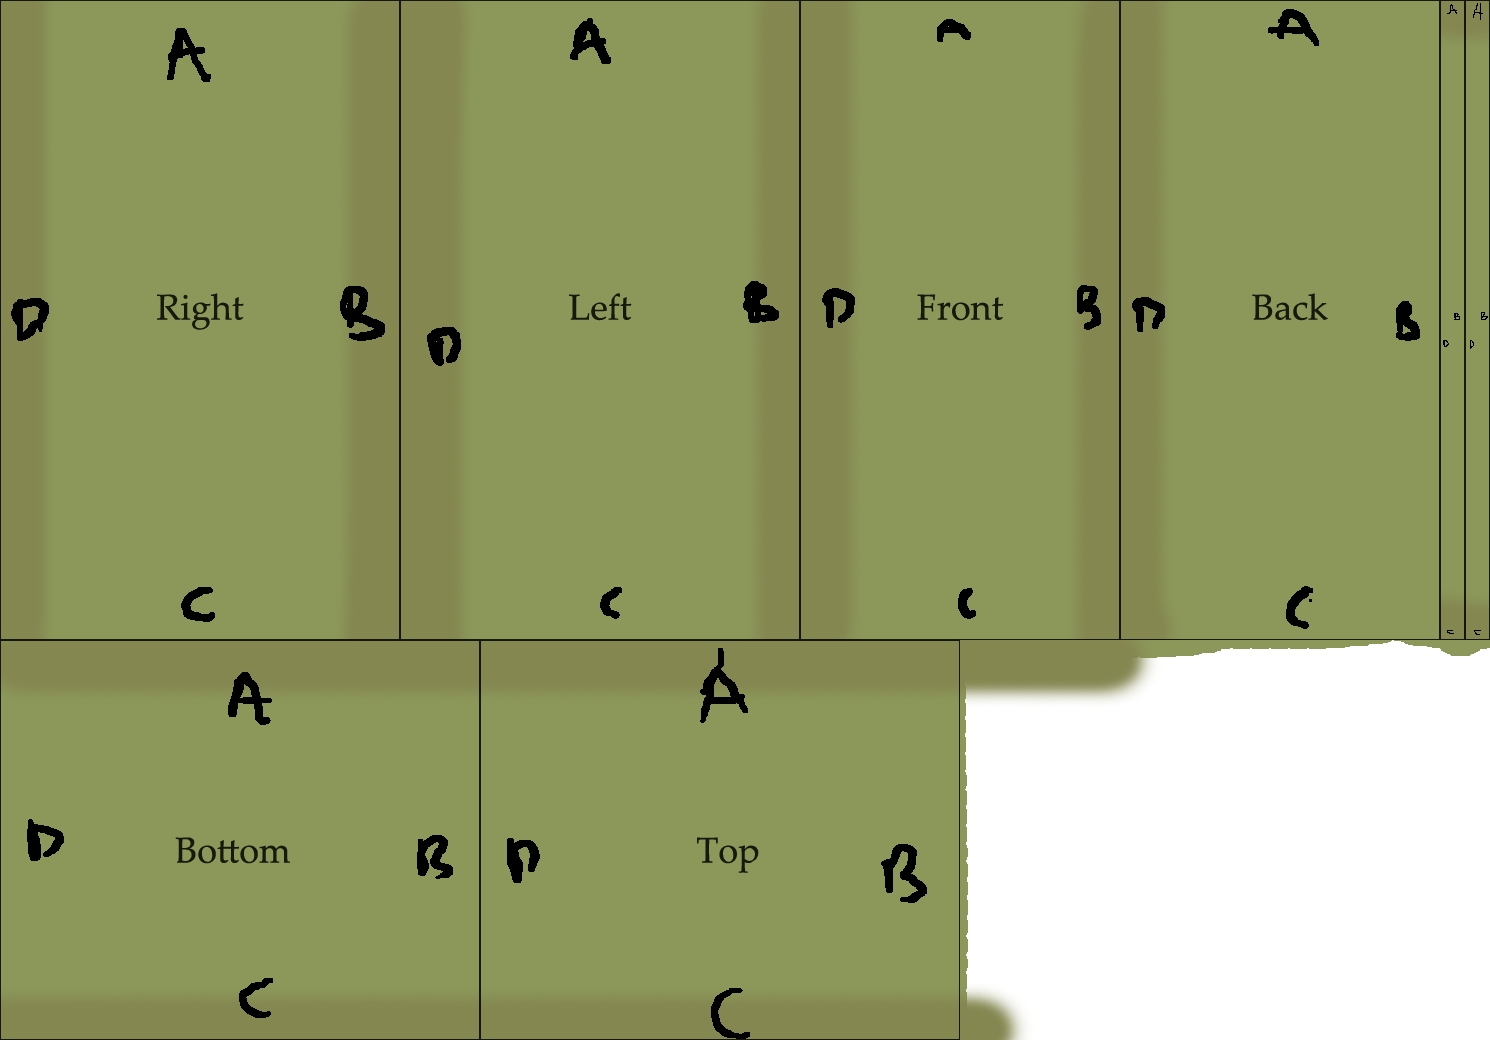
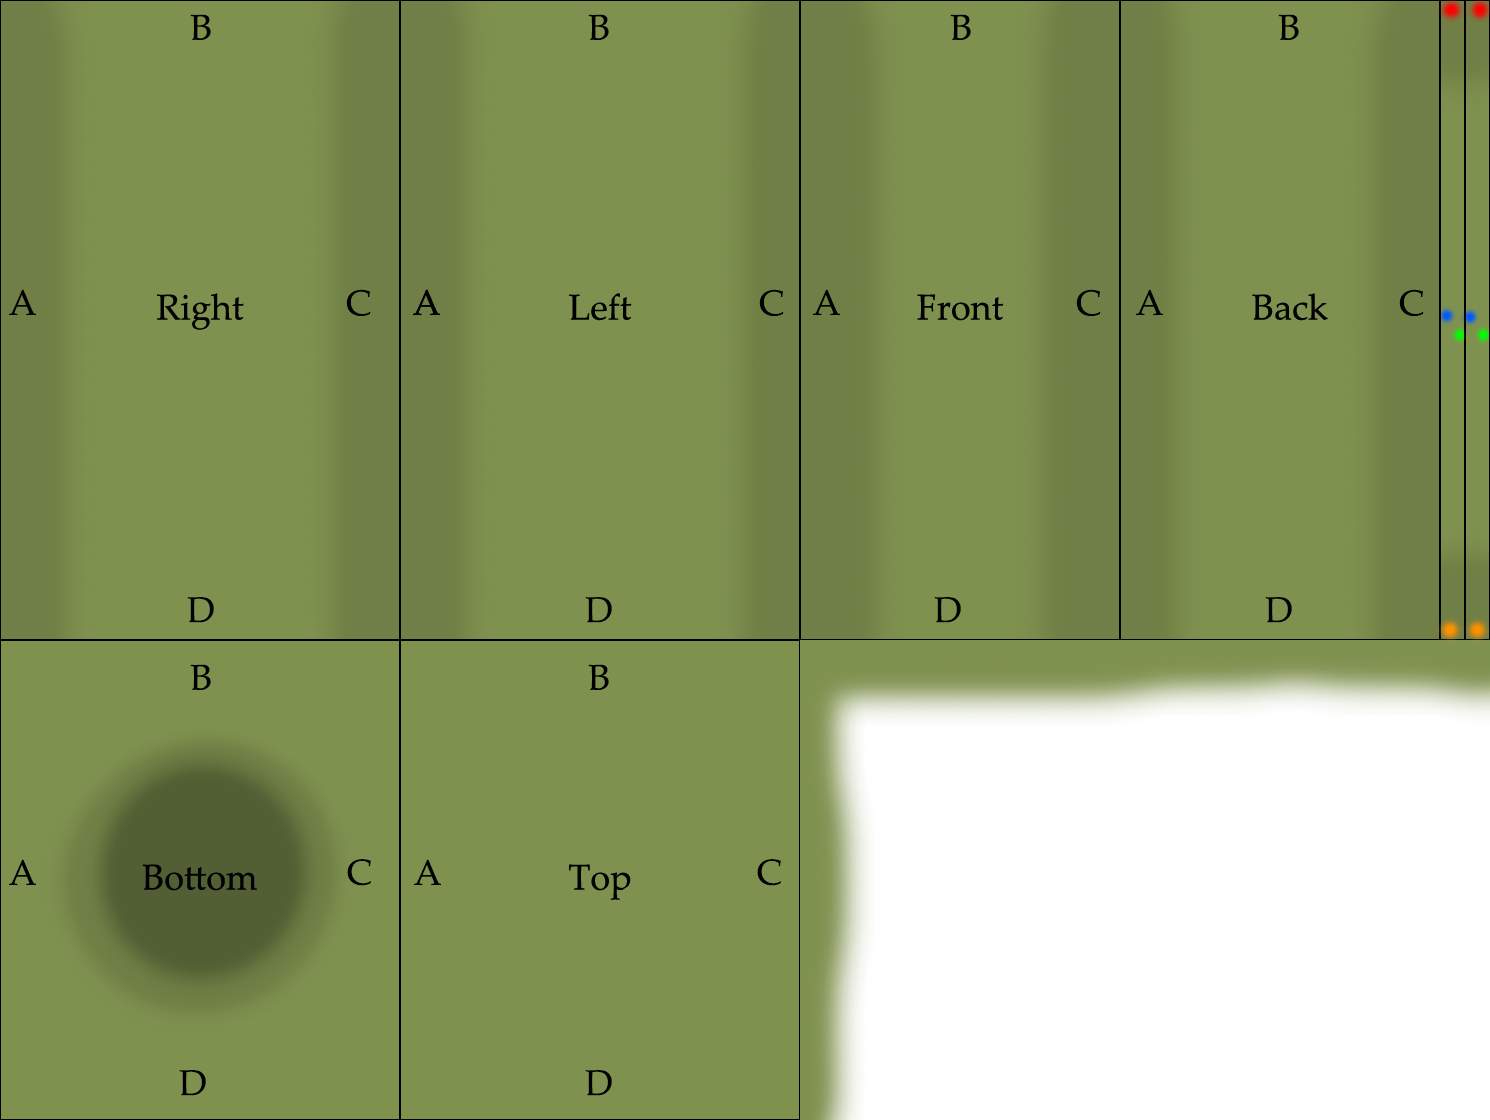
Sprite Atlas functional, changed .face to remove 100% BG. Update atlas test image

diff --git a/models/afssBody/afssBodyStyle.css b/models/afssBody/afssBodyStyle.css
@@ -2,100 +2,135 @@
 .afssBody {
   transform:translate3D(0em, 0em, 0em) rotateX(-90deg) rotateY(0deg) rotateZ(0deg);
   opacity:1;
-  width:2.5em;
-  height:4em;
-  margin:-2em 0 0 -1.25em;
+  width:25em;
+  height:40em;
+  margin:-20em 0 0 -12.5em;
 }
 .afssBody .ft {
-  transform:translateZ(1.5em);
+  transform:translateZ(15em);
 }
 .afssBody .bk {
-  transform:translateZ(-1.5em) rotateY(180deg);
+  transform:translateZ(-15em) rotateY(180deg);
 }
 .afssBody .rt, .afssBody .lt {
-  width:3em;
-  height:4em;
+  width:30em;
+  height:40em;
 }
 .afssBody .lt {
-  background-image: url(https://cdn.jsdelivr.net/gh/tnharvey/3DCSSTrainingRoom@main/models/afssBody/afss-side-top.png);
+  background: url(https://cdn.jsdelivr.net/gh/tnharvey/3DCSSTrainingRoom@main/models/afssBody/AFSS-Atlas2-test.png) 400 0;
 }
 .afssBody .rt {
-  background-image: url(https://cdn.jsdelivr.net/gh/tnharvey/3DCSSTrainingRoom@main/models/afssBody/afss-side-top.png);
+  background: url(https://cdn.jsdelivr.net/gh/tnharvey/3DCSSTrainingRoom@main/models/afssBody/AFSS-Atlas2-test.png) 0 0;
 }
-
+.afssBody .tp {
+  background: url(https://cdn.jsdelivr.net/gh/tnharvey/3DCSSTrainingRoom@main/models/afssBody/AFSS-Atlas2-test.png) 0 640;
+}
+.afssBody .bm {
+  background: url(https://cdn.jsdelivr.net/gh/tnharvey/3DCSSTrainingRoom@main/models/afssBody/AFSS-Atlas2-test.png) 480 640;
+}
+.afssBody .ft {
+  background: url(https://cdn.jsdelivr.net/gh/tnharvey/3DCSSTrainingRoom@main/models/afssBody/AFSS-Atlas2-test.png) 800 0;
+}
+.afssBody .bk {
+  background: url(https://cdn.jsdelivr.net/gh/tnharvey/3DCSSTrainingRoom@main/models/afssBody/AFSS-Atlas2-test.png) -1120 0;
+}
 .afssBody .tp, .afssBody .bm {
-  width:2.5em;
-  height:3em;
+  width:25em;
+  height:30em;
 }
 .afssBody .face {
   background-color:#b6b17c;
 }
 .afssBody .ft {
-  width:2em;
-  margin-left:0.25em;
+  width:20em;
+  margin-left:2.5em;
 }
 .afssBody .bk {
-  width:2em;
-  margin-left:-0.25em;
+  width:20em;
+  margin-left:-2.5em;
 }
 .afssBody .rt, .afssBody .lt {
-  width:2.5em;
+  width:25em;
 }
 .afssBody .tp, .afssBody .bm, .afssBody .tp .photon-shader, .afssBody .bm .photon-shader {
-  border-radius:0.25em;
+  border-radius:2.5em;
 }
 .afssBody .cr {
-  width:0.25em;
-  left:0.125em;
+  width:2.5em;
+  left:1.25em;
 }
 .afssBody .cr-0 {
-  transform: translate3D(2em, 0, 1.25em);
+  transform: translate3D(20em, 0, 12.5em);
 }
 .afssBody .cr-1 {
-  transform: translate3D(2em, 0, -1.25em);
+  transform: translate3D(20em, 0, -12.5em);
 }
 .afssBody .cr-2 {
-  transform: translate3D(0, 0, -1.25em);
+  transform: translate3D(0, 0, -12.5em);
 }
 .afssBody .cr-3 {
-  transform: translate3D(0, 0, 1.25em);
+  transform: translate3D(0, 0, 12.5em);
 }
 .afssBody .cr-0 .s0 {
-  transform: rotateY(15deg) translate3D(-50%, 0, 0.225em);
+  transform: rotateY(9deg) translate3D(-50%, 0, 2.475em);
 }
 .afssBody .cr-0 .s1 {
-  transform: rotateY(45deg) translate3D(-50%, 0, 0.225em);
+  transform: rotateY(27deg) translate3D(-50%, 0, 2.475em);
 }
 .afssBody .cr-0 .s2 {
-  transform: rotateY(75deg) translate3D(-50%, 0, 0.225em);
+  transform: rotateY(45deg) translate3D(-50%, 0, 2.475em);
+}
+.afssBody .cr-0 .s3 {
+  transform: rotateY(63deg) translate3D(-50%, 0, 2.475em);
+}
+.afssBody .cr-0 .s4 {
+  transform: rotateY(81deg) translate3D(-50%, 0, 2.475em);
 }
 .afssBody .cr-1 .s0 {
-  transform: rotateY(105deg) translate3D(-50%, 0, 0.225em);
+  transform: rotateY(99deg) translate3D(-50%, 0, 2.475em);
 }
 .afssBody .cr-1 .s1 {
-  transform: rotateY(135deg) translate3D(-50%, 0, 0.225em);
+  transform: rotateY(117deg) translate3D(-50%, 0, 2.475em);
 }
 .afssBody .cr-1 .s2 {
-  transform: rotateY(165deg) translate3D(-50%, 0, 0.225em);
+  transform: rotateY(135deg) translate3D(-50%, 0, 2.475em);
+}
+.afssBody .cr-1 .s3 {
+  transform: rotateY(153deg) translate3D(-50%, 0, 2.475em);
+}
+.afssBody .cr-1 .s4 {
+  transform: rotateY(171deg) translate3D(-50%, 0, 2.475em);
 }
 .afssBody .cr-2 .s0 {
-  transform: rotateY(195deg) translate3D(-50%, 0, 0.225em);
+  transform: rotateY(189deg) translate3D(-50%, 0, 2.475em);
 }
 .afssBody .cr-2 .s1 {
-  transform: rotateY(225deg) translate3D(-50%, 0, 0.225em);
+  transform: rotateY(207deg) translate3D(-50%, 0, 2.475em);
 }
 .afssBody .cr-2 .s2 {
-  transform: rotateY(255deg) translate3D(-50%, 0, 0.225em);
+  transform: rotateY(225deg) translate3D(-50%, 0, 2.475em);
+}
+.afssBody .cr-2 .s3 {
+  transform: rotateY(243deg) translate3D(-50%, 0, 2.475em);
+}
+.afssBody .cr-2 .s4 {
+  transform: rotateY(261deg) translate3D(-50%, 0, 2.475em);
 }
 .afssBody .cr-3 .s0 {
-  transform: rotateY(285deg) translate3D(-50%, 0, 0.225em);
+  transform: rotateY(279deg) translate3D(-50%, 0, 2.475em);
 }
 .afssBody .cr-3 .s1 {
-  transform: rotateY(315deg) translate3D(-50%, 0, 0.225em);
+  transform: rotateY(297deg) translate3D(-50%, 0, 2.475em);
 }
 .afssBody .cr-3 .s2 {
-  transform: rotateY(345deg) translate3D(-50%, 0, 0.225em);
+  transform: rotateY(315deg) translate3D(-50%, 0, 2.475em);
+}
+.afssBody .cr-3 .s3 {
+  transform: rotateY(333deg) translate3D(-50%, 0, 2.475em);
+}
+.afssBody .cr-3 .s4 {
+  transform: rotateY(351deg) translate3D(-50%, 0, 2.475em);
 }
 .afssBody .side {
-  width:0.15897459621556134em;
+  width:0.8169222016226814em;
 }

diff --git a/style.css b/style.css
@@ -317,7 +317,7 @@ span {
 }
 
 .face {
-  background-size: 100% 100%!important;
+  
   background-position: center;
 }
 
@@ -481,7 +481,7 @@ span {
 }
 
 #afssBody01 {
-  transform: translate3d(132px,58px,-250px) rotateY(0deg) rotateX(0deg) rotateZ(0deg) scale(2);
+  transform: translate3d(132px,58px,-250px) rotateY(0deg) rotateX(0deg) rotateZ(0deg) scaleX(0.2) scaleY(0.2) scaleZ(0.2);
 }
 
 #afssDoor01 {
